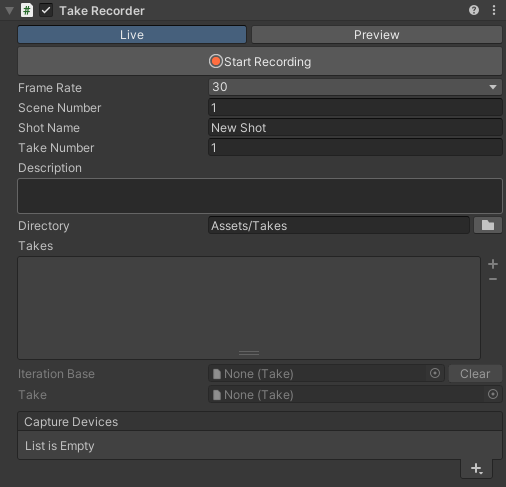
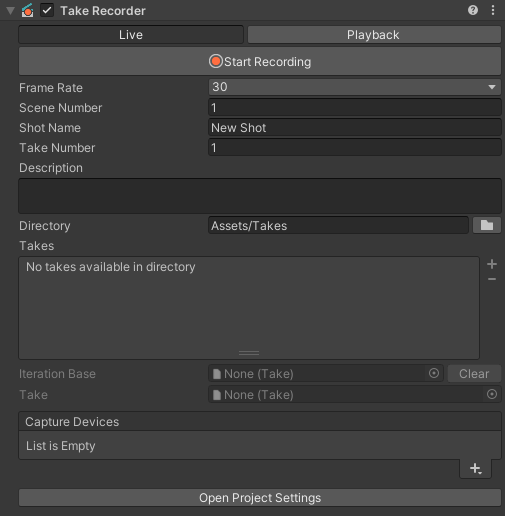
com.unity.live-capture@1.0.1-pre.585 ## [1.0.1-pre.585] - 2021-07-27
### Changed
  - Update to the documentation

### Fixed
  - Null reference exception when a user resizes a clip inside a TakeRecorderTrack

diff --git a/Runtime/CompanionApp/CompanionAppDevice.cs b/Runtime/CompanionApp/CompanionAppDevice.cs
@@ -250,8 +250,9 @@ namespace Unity.LiveCapture.CompanionApp
                 SendDeviceState(takeRecorder.IsLive());
 
                 var slate = takeRecorder.GetActiveSlate();
+                var hasSlate = slate != null;
                 var slateChanged = m_SlateChangeTracker.Changed(slate);
-                var take = slate != null ? slate.Take : null;
+                var take = hasSlate ? slate.Take : null;
 
                 var assetName = GetAssetName();
                 var assetNameChanged = assetName != m_LastAssetName;
@@ -260,15 +261,17 @@ namespace Unity.LiveCapture.CompanionApp
                 if (TryGetInternalClient(out var client))
                 {
                     client.SendFrameRate(takeRecorder.IsLive() || take == null ? takeRecorder.FrameRate : take.FrameRate);
-                    client.SendHasSlate(slate != null);
-                    client.SendSlateDuration(slate != null ? slate.Duration : 0d);
+                    client.SendHasSlate(hasSlate);
+                    client.SendSlateDuration(hasSlate ? slate.Duration : 0d);
                     client.SendSlateIsPreviewing(takeRecorder.IsPreviewPlaying());
                     client.SendSlatePreviewTime(takeRecorder.GetPreviewTime());
 
                     if (slateChanged || assetNameChanged)
                     {
-                        m_TakeNameFormatter.ConfigureTake(slate.SceneNumber, slate.ShotName, slate.TakeNumber);
-                        m_TakeNameFormatter.ConfigureAsset(GetAssetName());
+                        if (hasSlate)
+                            m_TakeNameFormatter.ConfigureTake(slate.SceneNumber, slate.ShotName, slate.TakeNumber);
+                        else
+                            m_TakeNameFormatter.ConfigureTake(0, "Shot", 0);
 
                         client.SendNextTakeName(m_TakeNameFormatter.GetTakeName());
                         client.SendNextAssetName(m_TakeNameFormatter.GetAssetName());

diff --git a/Documentation~/index.md b/Documentation~/index.md
@@ -6,19 +6,45 @@ Use the Live Capture package to connect to the Unity Virtual Camera and Unity Fa
 
 Two Apps compatible with the Live Capture package are currently available (for iOS):
 
-* The [Unity Virtual Camera App](virtual-camera.md) allows you to capture and record camera motion through an iPhone or iPad as if you were physically in the Unity Scene.
-* The [Unity Live Capture App](face-capture.md) allows you to capture and record face movements through an iPhone or iPad and apply them on a character in your Unity Scene.
+* The [Unity Virtual Camera app](virtual-camera.md) allows you to capture and record camera motion through an iPhone or iPad as if you were physically in the Unity Scene.
+* The [Unity Live Capture app](face-capture.md) allows you to capture and record face movements through an iPhone or iPad and apply them on a character in your Unity Scene.
 
-## Before you start
+## Installation
 
-1. [Set up your network and configure your firewall](setup-network.md)
+To use the features described in this documentation, you must:
+* [Install the Live Capture package](#install-app) in your Unity Editor and meet specific system requirements.
+* [Install companion apps](#install-package) on your mobile device according to the feature you want to use.
+* [Meet specific network requirements](#network-requirements).
 
-2. [Install the App on your mobile device](setup-installing-app.md)
+<a name="install-package"></a>
+### Installing the Live Capture package
 
-3. [Connect the App to the Unity Editor](setup-connecting.md)
+To install the Live Capture package, follow the instructions in the [Package Manager documentation](https://docs.unity3d.com/Manual/upm-ui-install.html).
 
-## Requirements
+| Requirements |  |
+|---|---|
+| **Unity Editor**   | **Unity Editor 2020.3** or later version. |
+| **Platform**       | Windows or macOS. |
+| **Hardware (GPU)** | • Virtual Camera video streaming requires a PC running Windows 10 with a modern GPU (NVIDIA GTX 1060 or better is recommended though not required).<br />• Face Capture requires no specific hardware. |
 
-This version of the Live Capture package is compatible with the following versions of the Unity Editor:
+<a name="install-app"></a>
+### Installing the apps on your mobile device
 
-* 2020.3 and later
+The Unity Virtual Camera and Unity Face Capture apps are currently available on iPhone and iPad.
+
+| App name | Device requirements | Get the app |
+|:---|:---|:---|
+| **Unity Virtual Camera** | iPad or iPhone with:<br />• iOS 14.5 or higher<br />• ARKit capabilities (implied with the required iOS version)| [![Unity Virtual Camera](images/app-store-badge.png)](https://apps.apple.com/us/app/unity-virtual-camera/id1478175507) |
+| **Unity Face Capture** | iPhone or iPad with:<br />• iOS 14.6 or higher<br />• ARKit _face tracking_ capabilities (see the [list of supported devices](https://support.apple.com/en-us/HT209183)) | [![Unity Face Capture](images/app-store-badge.png)](https://apps.apple.com/us/app/unity-face-capture/id1544159771) |
+
+### Network requirements
+
+* Your mobile devices and your Unity Editor workstation must have access to the **same network**.
+
+* You must **disable** any active **VPNs**.
+
+* On Windows 10, you must set your **Wi-Fi** network to **Private**.
+
+* Your **firewall** must allow your Unity Editor program to get **inbound connections** from external apps of your local network.
+
+[Get more information on how to meet those network requirements](setup-network.md).

diff --git a/Documentation~/ref-component-take-recorder.md b/Documentation~/ref-component-take-recorder.md
@@ -2,7 +2,7 @@
 
 The Take Recorder component is responsible for recording, managing, and playing back Live Capture takes.
 
-To use the Take Recorder component, you must create a dedicated TakeRecorder GameObject in your Scene Hierarchy: **Live Capture > Take Recorder**
+To use the Take Recorder component, you must create a dedicated Take Recorder GameObject in your Scene Hierarchy: **Live Capture > Take Recorder**
 
 ![Take Recorder Component](images/ref-component-take-recorder.png)
 
@@ -13,9 +13,9 @@ All controls and properties to record and play back Live Capture takes.
 | Control/property | Description |
 |:---|:---|
 | **Live** | Sets the Take Recorder in Live mode, which allows you to capture and record takes through connected apps. |
-| **Preview** | Sets the Take Recorder in Preview mode, which allows you to play back takes in the Unity Editor and on the connected apps. |
+| **Playback** | Sets the Take Recorder in Playback mode, which allows you to play back takes in the Unity Editor and on the connected apps. |
 | **Start/Stop Recording** | Allows you to start and stop the recording of a take according to the current connected apps.<br />This button is only available when you set the Take Recorder in Live mode.<br /><br />**Note:** When you start and stop a recording from a connected app, the status of this button updates accordingly in the Unity Editor. |
-| **Start/Stop Preview** | Allows you to start and stop playing back a take according to the current connected apps.<br />This button is only available when you set the Take Recorder in Preview mode.<br /><br />**Note:** When you start and stop playing back a take from a connected app, the status of this button updates accordingly in the Unity Editor. |
+| **Start/Stop Preview** | Allows you to start and stop playing back a take according to the current connected apps.<br />This button is only available when you set the Take Recorder in Playback mode.<br /><br />**Note:** When you start and stop playing back a take from a connected app, the status of this button updates accordingly in the Unity Editor. |
 
 ## Slate/take properties
 

diff --git a/Documentation~/troubleshooting.md b/Documentation~/troubleshooting.md
@@ -14,10 +14,9 @@ If you still can't connect: on the app, switch to **Manual** mode and manually e
 ## ***I'm connected but nothing is happening in the editor***
 
 Ensure that:
-* There is a **TakeRecorder** object in your scene (**GameObject > Live Capture > Take Recorder**).
+* There is a **Take Recorder** object in your scene (**GameObject > Live Capture > Take Recorder**).
 * There is a device to handle incoming data streams by adding a device to **Capture Devices** on the **Take Recorder** component in your scene.
 * The device game object (e.g. "New VirtualCameraDevice") is a child of a game object with a **Take Recorder** component and the device is assigned in the **Capture Devices** list of the **Take Recorder**.
 * The toggle to the left of the device in the **Capture Devices** section of the **Take Recorder** component is enabled.
 * **Live** mode is enabled on the **Take Recorder**.
 * In the case of using the Virtual Camera or Face Capture apps, ensure that the device has an **Actor** assigned.
-

diff --git a/Documentation~/virtual-camera.md b/Documentation~/virtual-camera.md
@@ -1,19 +1,12 @@
 # Using the Virtual Camera
 
-* [Getting started](virtual-camera-getting-started.md)
-* [Workflow](virtual-camera-workflow.md)
-* [App controls and settings](virtual-camera-app-controls.md)
-* [Virtual Camera Device](ref-component-virtual-camera-device.md)
+## Before you start
 
-## Requirements
+1. [Install the Live Capture package and the Unity Virtual Camera app](index.md#installation)
 
-* PC running Windows or OSX.
+2. [Make sure your network and your firewall are correctly set up](setup-network.md)
 
-* iPad with ARKit capabilities -- iPad Pro, iPad Air (3rd gen or later), iPad mini (5th gen or later), or iPad (5th gen or later).
-
-* Video streaming requires a PC running Windows 10 with a modern GPU (NVIDIA GTX 1060 or better is recommended though not required).
-
-**Note:** Currently the app functions on an iPhone with non-optimal layout.
+3. [Connect the Virtual Camera app to the Unity Editor](setup-connecting.md)
 
 ## Virtual Camera app features
 

diff --git a/Documentation~/take-system.md b/Documentation~/take-system.md
@@ -19,7 +19,7 @@ The following is an example of the file structure of the recorded takes in Asset
 1. Open an unlocked Timeline window.
 2. Select the **Take Recorder** game object.
 3. Select an available **Take** from the list in the **Take Recorder** Inspector.
-4. Make sure the **Take Recorder** is in **Preview** mode instead of **Live**. Disable **Live** mode by clicking the **Preview** button in the **Take Recorder** component.
+4. Make sure the **Take Recorder** is in **Playback** mode instead of **Live**. Disable **Live** mode by clicking the **Playback** button in the **Take Recorder** component.
 5. Press the **Play** button in the Timeline or scrub the playhead.
 6. Press the **Live** button on the **Take Recorder** when you're ready to record again.
 

diff --git a/Documentation~/face-capture.md b/Documentation~/face-capture.md
@@ -1,15 +1,12 @@
 # Face Capture
 
-* [Getting started](face-capture-getting-started.md)
-* [Using ARKit Mapping Evaluators](face-capture-mapping-evaluator.md)
+## Before you start
 
-## Requirements
+1. [Install the Live Capture package and the Unity Face Capture app](index.md#installation)
 
-* PC running Windows or OSX
+2. [Make sure your network and your firewall are correctly set up](setup-network.md)
 
-* iPhone or iPad with [ARKit face tracking capabilities](https://support.apple.com/en-us/HT209183)
-
-**Note:** An iPhone is preferable to an iPad for ergonomics.
+3. [Connect the Face Capture app to the Unity Editor](setup-connecting.md)
 
 ## Features
 

diff --git a/Documentation~/virtual-camera-getting-started.md b/Documentation~/virtual-camera-getting-started.md
@@ -1,9 +1,5 @@
 # Getting started
 
-## App
-
-Install the Virtual Camera app [via Test Flight](setup-installing-app.md).
-
 ### Tracking tips
 
 * AR camera tracking involves image analysis, which requires a clear image. Patterned surfaces are best.
@@ -61,4 +57,3 @@ You are now ready to record Takes with your **Companion App**.
 
 1. Depends on the Post-Processing Stack V2. The feature will only be activated if `com.unity.postprocessing` is installed.
 2. At the moment Depth Of Field is only supported when using the basic Virtual Camera Actor (as opposed to the Cinemachine variant).
-

diff --git a/CHANGELOG.md b/CHANGELOG.md
@@ -4,6 +4,14 @@ All notable changes to this package will be documented in this file.
 The format is based on [Keep a Changelog](http://keepachangelog.com/en/1.0.0/)
 and this project adheres to [Semantic Versioning](http://semver.org/spec/v2.0.0.html).
 
+## [1.0.1-pre.585] - 2021-07-27
+
+### Changed
+  - Update to the documentation
+
+### Fixed
+  - Null reference exception when a user resizes a clip inside a TakeRecorderTrack
+
 ## [1.0.1-pre.570] - 2021-07-22
 
 ### Added

diff --git a/Documentation~/take-system-recording.md b/Documentation~/take-system-recording.md
@@ -10,7 +10,7 @@ After connecting to the companion app:
 
 ## Reviewing a recorded performance
 
-After recording a Take, tap the button in the bottom right to enter **Review Mode**.
+After recording a Take, tap the button in the bottom right to enter the **Playback** mode.
 
 ![Timeline Playback Control](images/review-button.png)
 

diff --git a/Documentation~/TableOfContents.md b/Documentation~/TableOfContents.md
@@ -1,7 +1,6 @@
 * [Overview](index.md)
 * Setup
   * [Network setup](setup-network.md)
-  * [Installing apps](setup-installing-app.md)
   * [Connecting App and Editor](setup-connecting.md)
   * [Connections window](ref-window-connections.md)
 * [Take System](take-system.md)
